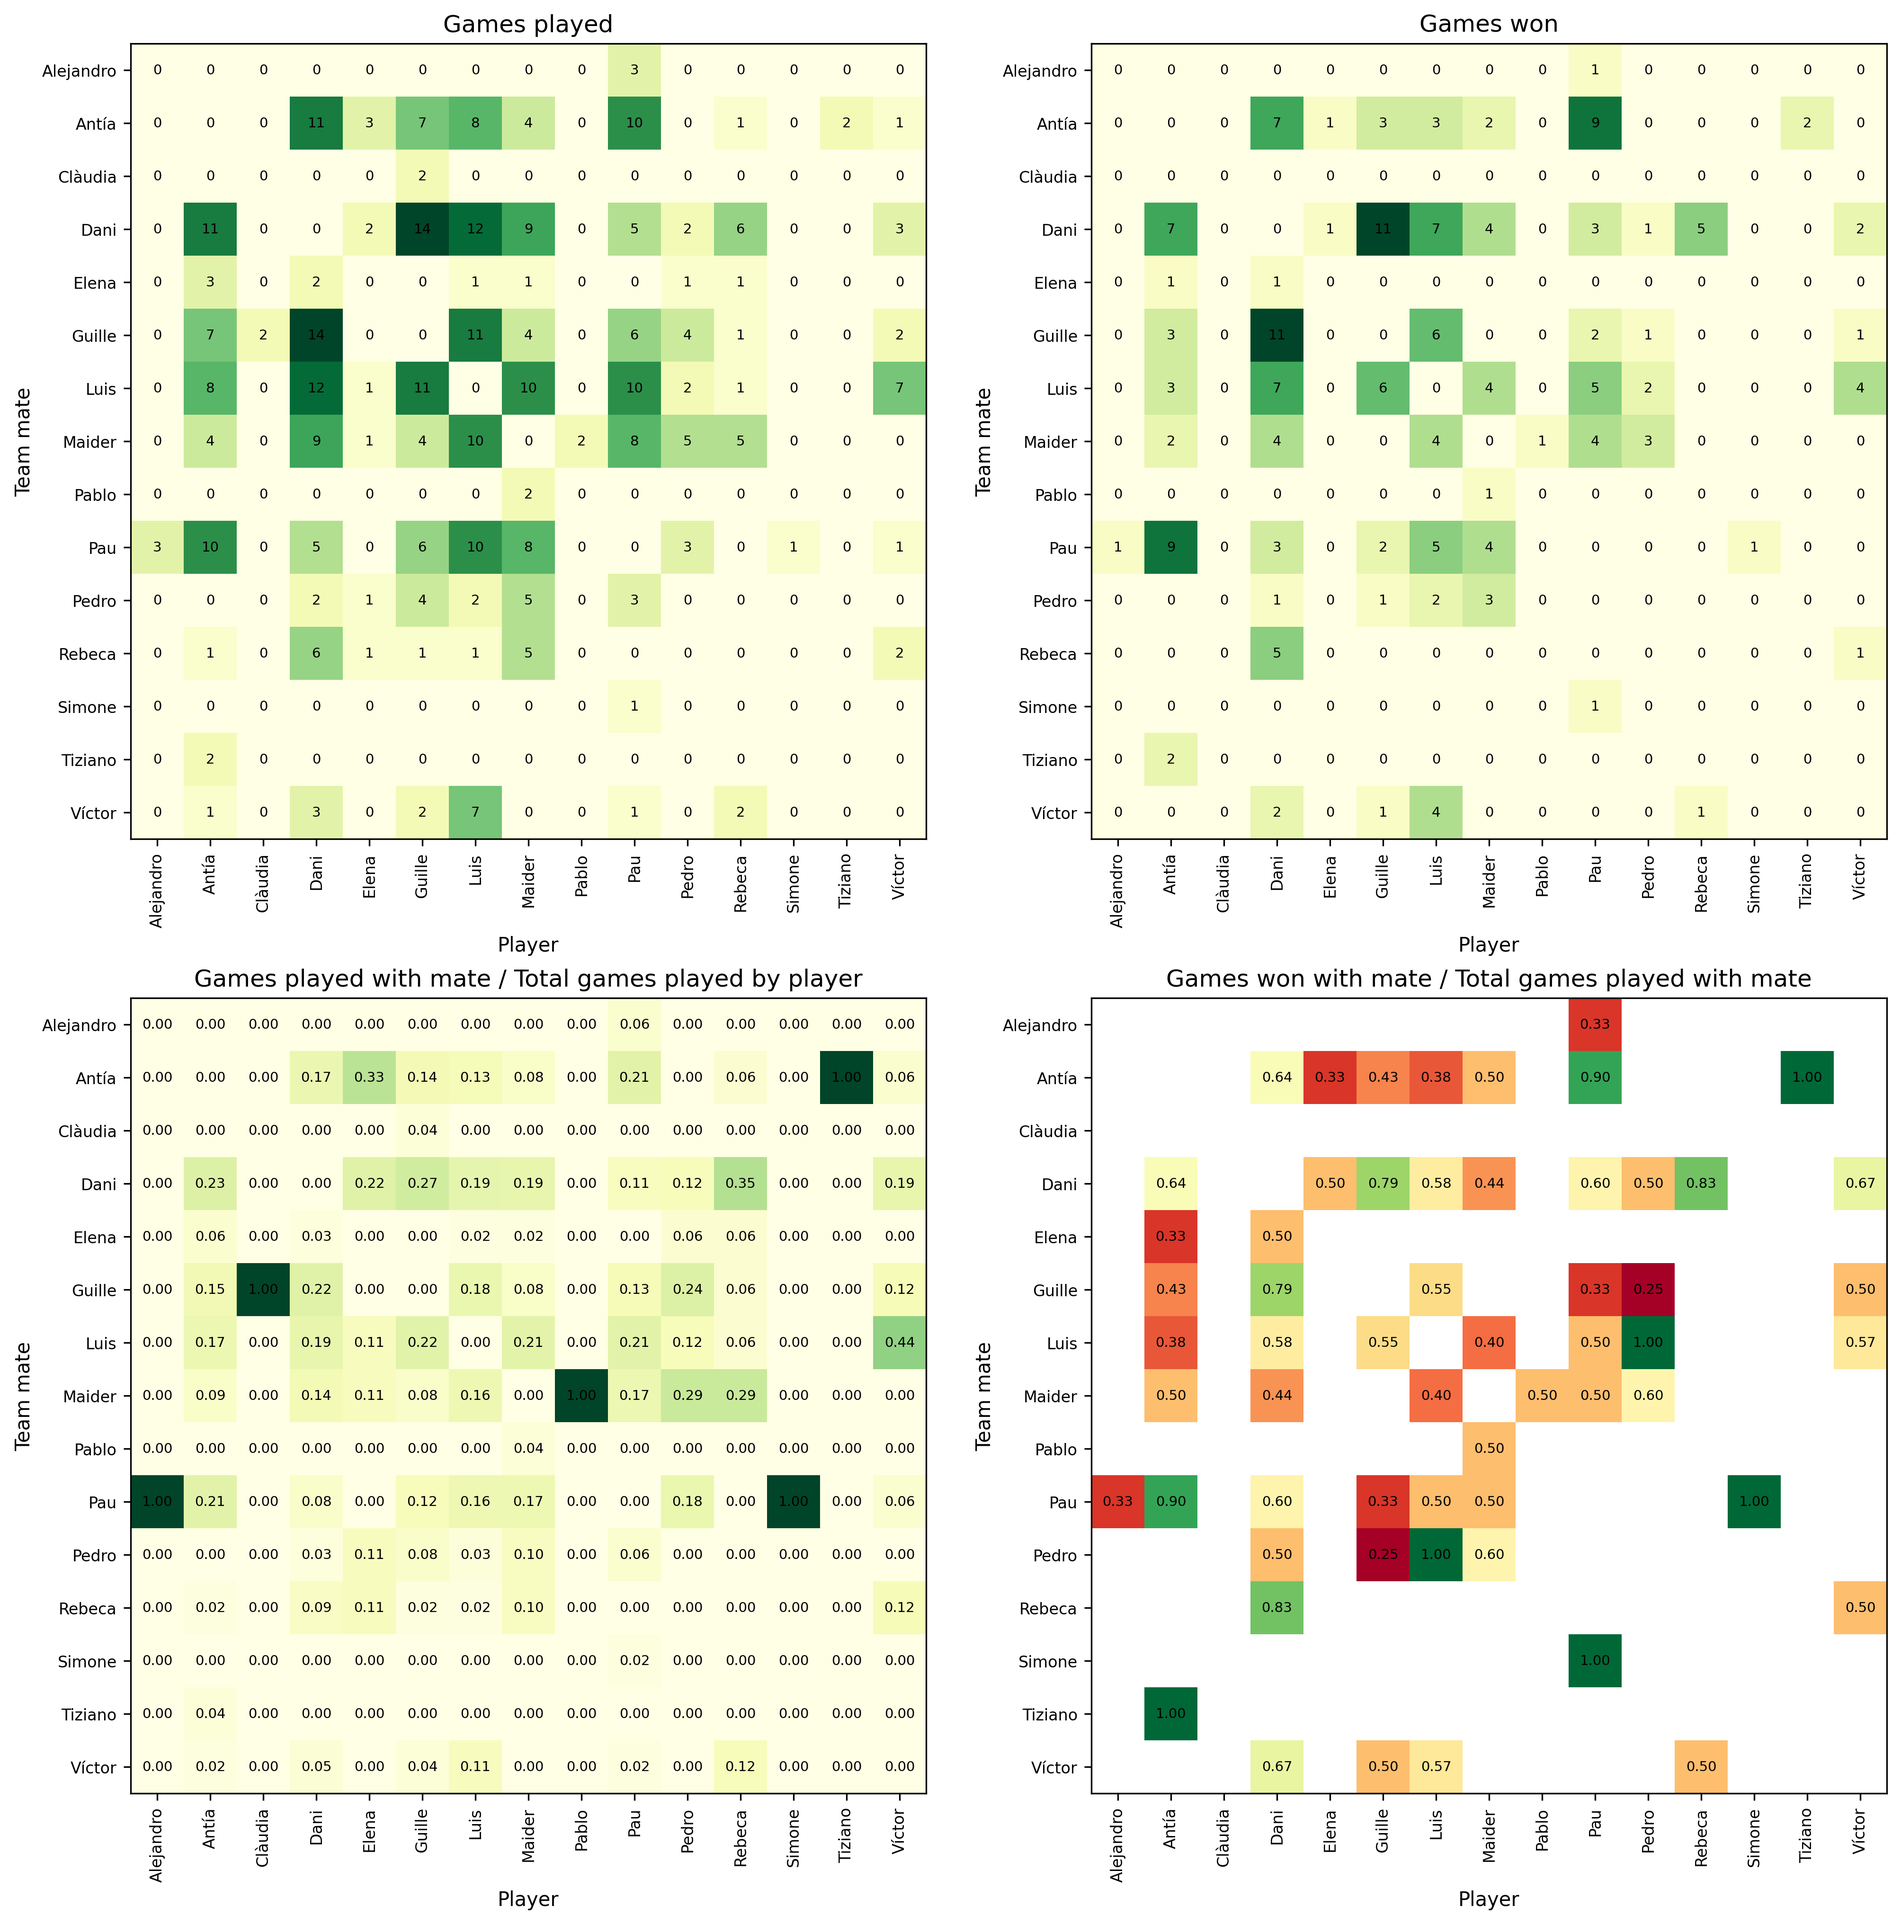
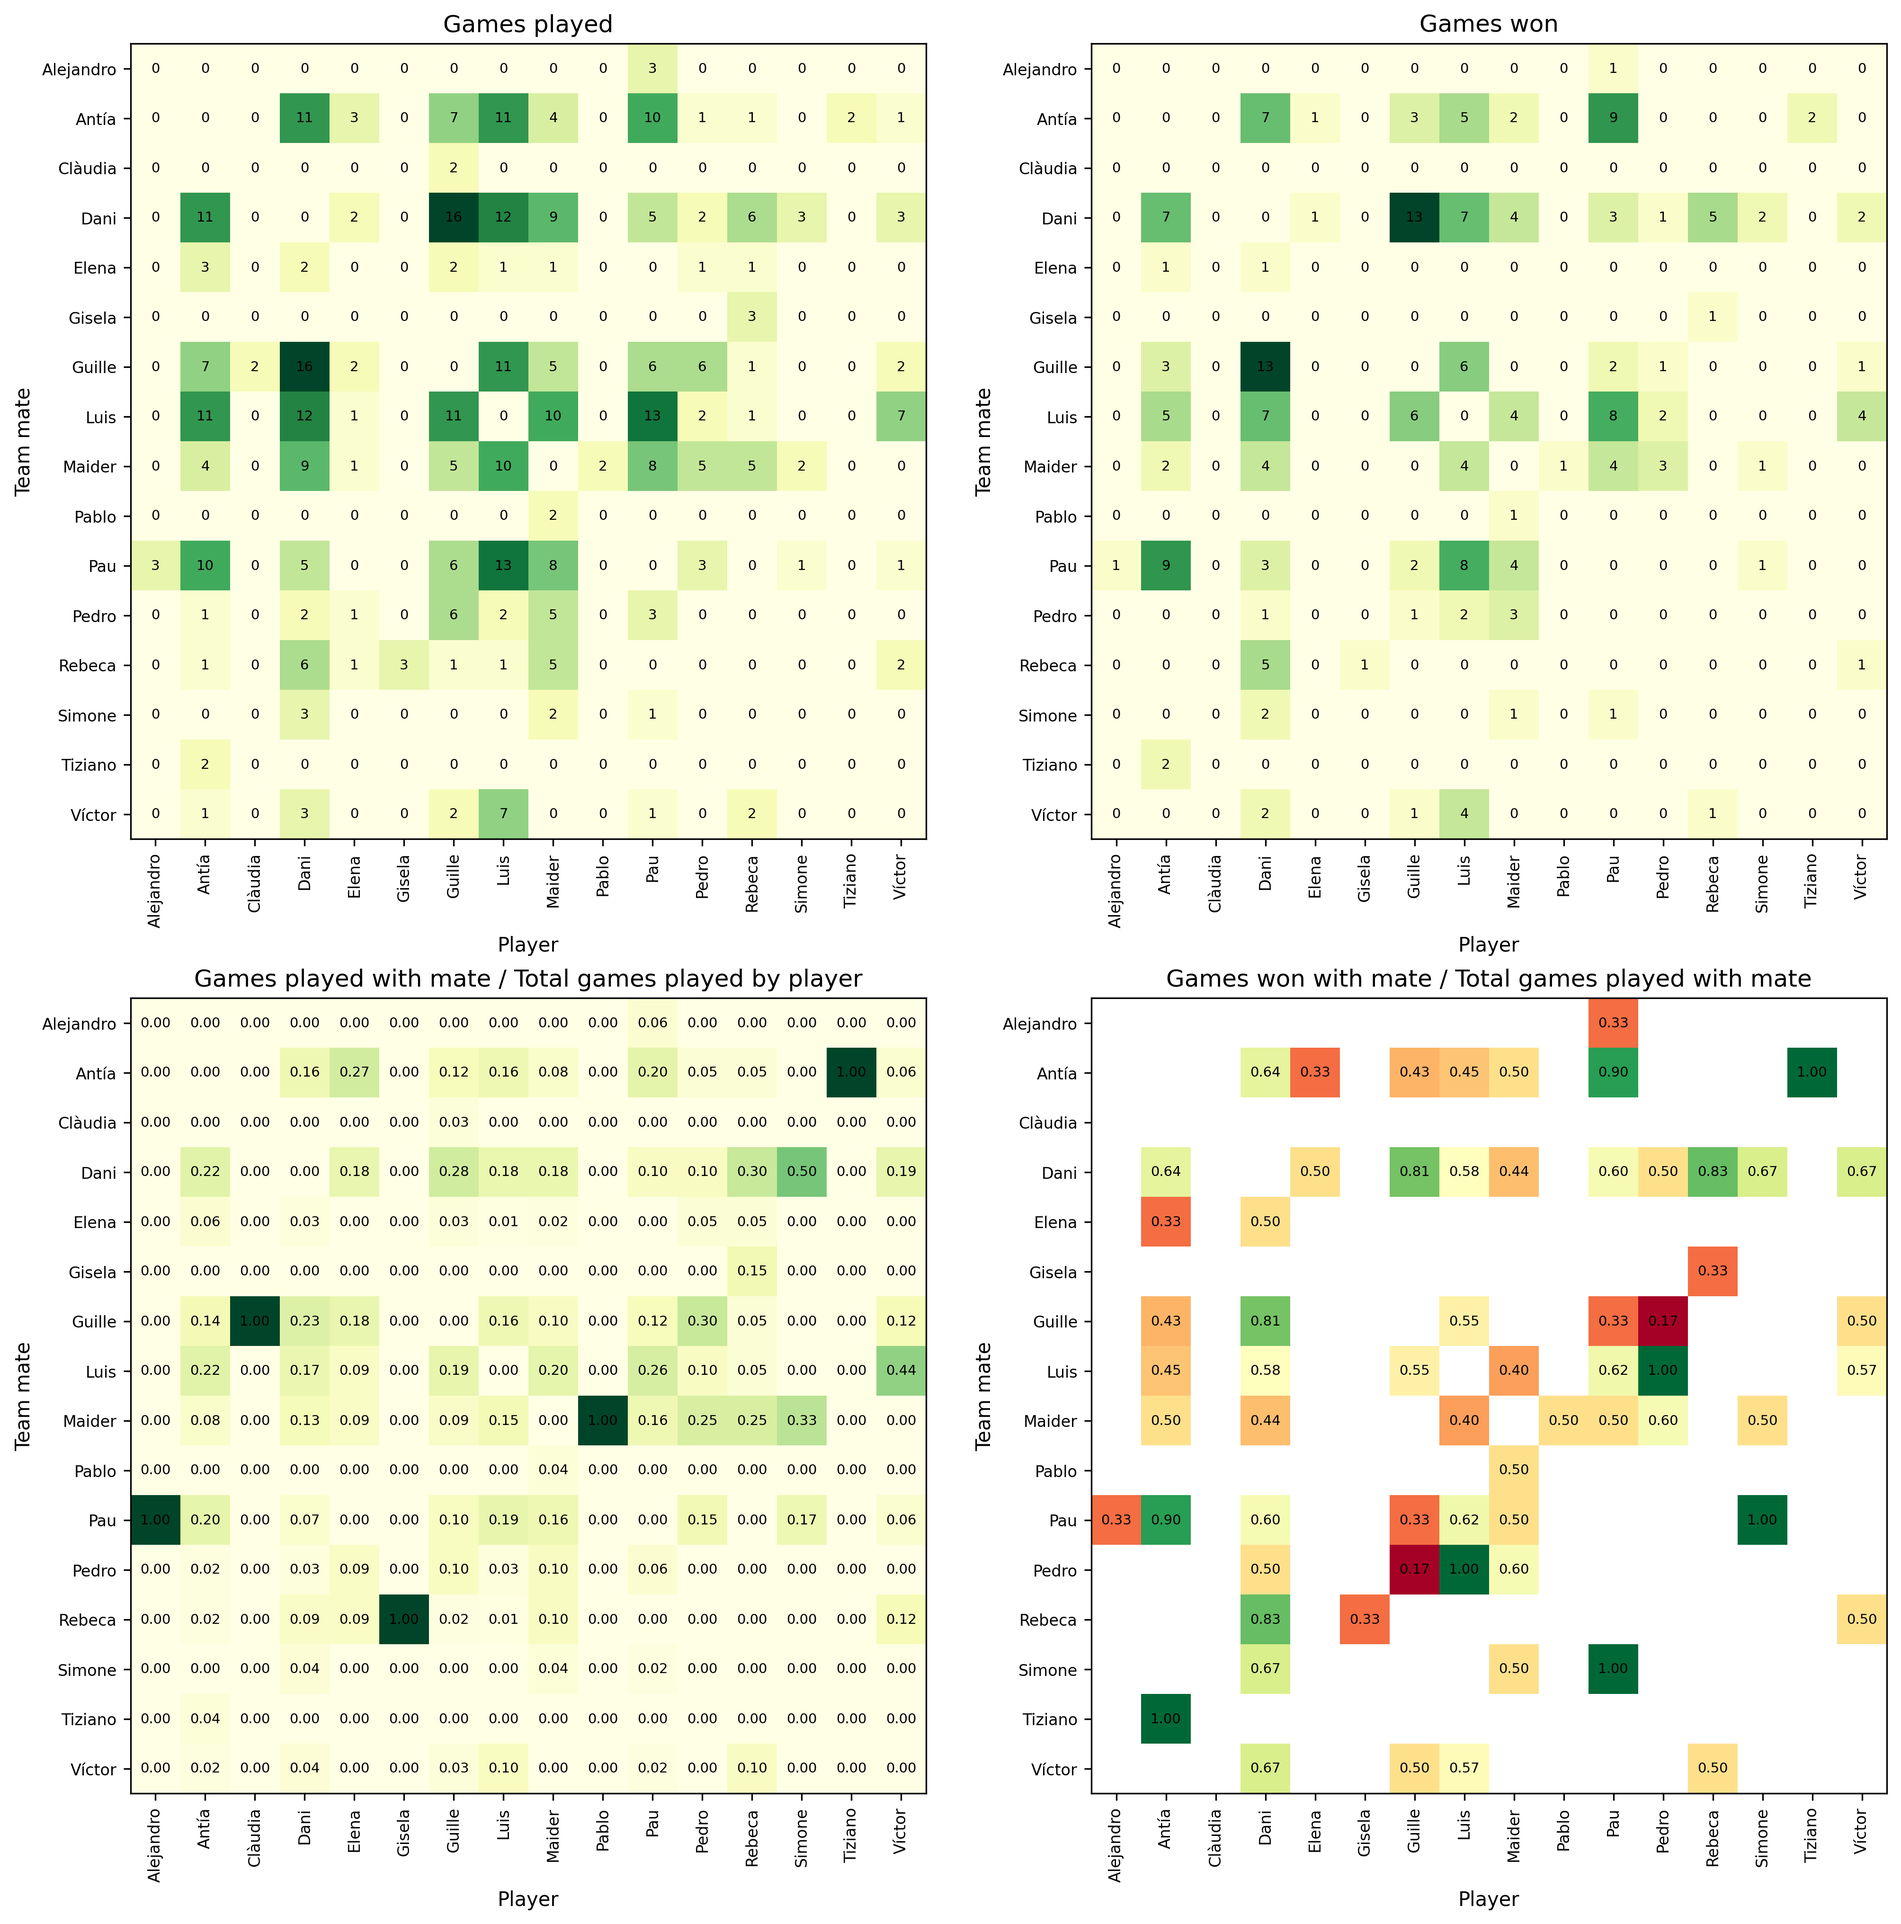
Updated to Matchday 18

diff --git a/results/winplayed_stats.html b/results/winplayed_stats.html
@@ -1,59 +1,64 @@
 <style type="text/css">
 </style>
-<table id="T_7d732">
-  <caption>Games won / Games played (Matchday 15)</caption>
+<table id="T_026d8">
+  <caption>Games won / Games played (Matchday 17)</caption>
   <thead>
     <tr>
       <th class="blank level0" >&nbsp;</th>
-      <th id="T_7d732_level0_col0" class="col_heading level0 col0" >0</th>
-      <th id="T_7d732_level0_col1" class="col_heading level0 col1" >1</th>
+      <th id="T_026d8_level0_col0" class="col_heading level0 col0" >0</th>
+      <th id="T_026d8_level0_col1" class="col_heading level0 col1" >1</th>
     </tr>
   </thead>
   <tbody>
     <tr>
-      <th id="T_7d732_level0_row0" class="row_heading level0 row0" >1</th>
-      <td id="T_7d732_row0_col0" class="data row0 col0" >Dani</td>
-      <td id="T_7d732_row0_col1" class="data row0 col1" >0.64</td>
+      <th id="T_026d8_level0_row0" class="row_heading level0 row0" >1</th>
+      <td id="T_026d8_row0_col0" class="data row0 col0" >Dani</td>
+      <td id="T_026d8_row0_col1" class="data row0 col1" >0.65</td>
     </tr>
     <tr>
-      <th id="T_7d732_level0_row1" class="row_heading level0 row1" >2</th>
-      <td id="T_7d732_row1_col0" class="data row1 col0" >Antía</td>
-      <td id="T_7d732_row1_col1" class="data row1 col1" >0.57</td>
+      <th id="T_026d8_level0_row1" class="row_heading level0 row1" >2</th>
+      <td id="T_026d8_row1_col0" class="data row1 col0" >Antía</td>
+      <td id="T_026d8_row1_col1" class="data row1 col1" >0.57</td>
     </tr>
     <tr>
-      <th id="T_7d732_level0_row2" class="row_heading level0 row2" >3</th>
-      <td id="T_7d732_row2_col0" class="data row2 col0" >Pau</td>
-      <td id="T_7d732_row2_col1" class="data row2 col1" >0.53</td>
+      <th id="T_026d8_level0_row2" class="row_heading level0 row2" >3</th>
+      <td id="T_026d8_row2_col0" class="data row2 col0" >Pau</td>
+      <td id="T_026d8_row2_col1" class="data row2 col1" >0.56</td>
     </tr>
     <tr>
-      <th id="T_7d732_level0_row3" class="row_heading level0 row3" >4</th>
-      <td id="T_7d732_row3_col0" class="data row3 col0" >Víctor</td>
-      <td id="T_7d732_row3_col1" class="data row3 col1" >0.5</td>
+      <th id="T_026d8_level0_row3" class="row_heading level0 row3" >4</th>
+      <td id="T_026d8_row3_col0" class="data row3 col0" >Luis</td>
+      <td id="T_026d8_row3_col1" class="data row3 col1" >0.53</td>
     </tr>
     <tr>
-      <th id="T_7d732_level0_row4" class="row_heading level0 row4" >5</th>
-      <td id="T_7d732_row4_col0" class="data row4 col0" >Luis</td>
-      <td id="T_7d732_row4_col1" class="data row4 col1" >0.5</td>
+      <th id="T_026d8_level0_row4" class="row_heading level0 row4" >5</th>
+      <td id="T_026d8_row4_col0" class="data row4 col0" >Víctor</td>
+      <td id="T_026d8_row4_col1" class="data row4 col1" >0.5</td>
     </tr>
     <tr>
-      <th id="T_7d732_level0_row5" class="row_heading level0 row5" >6</th>
-      <td id="T_7d732_row5_col0" class="data row5 col0" >Guille</td>
-      <td id="T_7d732_row5_col1" class="data row5 col1" >0.47</td>
+      <th id="T_026d8_level0_row5" class="row_heading level0 row5" >6</th>
+      <td id="T_026d8_row5_col0" class="data row5 col0" >Guille</td>
+      <td id="T_026d8_row5_col1" class="data row5 col1" >0.45</td>
     </tr>
     <tr>
-      <th id="T_7d732_level0_row6" class="row_heading level0 row6" >7</th>
-      <td id="T_7d732_row6_col0" class="data row6 col0" >Pedro</td>
-      <td id="T_7d732_row6_col1" class="data row6 col1" >0.41</td>
+      <th id="T_026d8_level0_row6" class="row_heading level0 row6" >7</th>
+      <td id="T_026d8_row6_col0" class="data row6 col0" >Maider</td>
+      <td id="T_026d8_row6_col1" class="data row6 col1" >0.37</td>
     </tr>
     <tr>
-      <th id="T_7d732_level0_row7" class="row_heading level0 row7" >8</th>
-      <td id="T_7d732_row7_col0" class="data row7 col0" >Maider</td>
-      <td id="T_7d732_row7_col1" class="data row7 col1" >0.38</td>
+      <th id="T_026d8_level0_row7" class="row_heading level0 row7" >8</th>
+      <td id="T_026d8_row7_col0" class="data row7 col0" >Rebeca</td>
+      <td id="T_026d8_row7_col1" class="data row7 col1" >0.35</td>
     </tr>
     <tr>
-      <th id="T_7d732_level0_row8" class="row_heading level0 row8" >9</th>
-      <td id="T_7d732_row8_col0" class="data row8 col0" >Rebeca</td>
-      <td id="T_7d732_row8_col1" class="data row8 col1" >0.35</td>
+      <th id="T_026d8_level0_row8" class="row_heading level0 row8" >9</th>
+      <td id="T_026d8_row8_col0" class="data row8 col0" >Pedro</td>
+      <td id="T_026d8_row8_col1" class="data row8 col1" >0.35</td>
+    </tr>
+    <tr>
+      <th id="T_026d8_level0_row9" class="row_heading level0 row9" >10</th>
+      <td id="T_026d8_row9_col0" class="data row9 col0" >Elena</td>
+      <td id="T_026d8_row9_col1" class="data row9 col1" >0.18</td>
     </tr>
   </tbody>
 </table>
